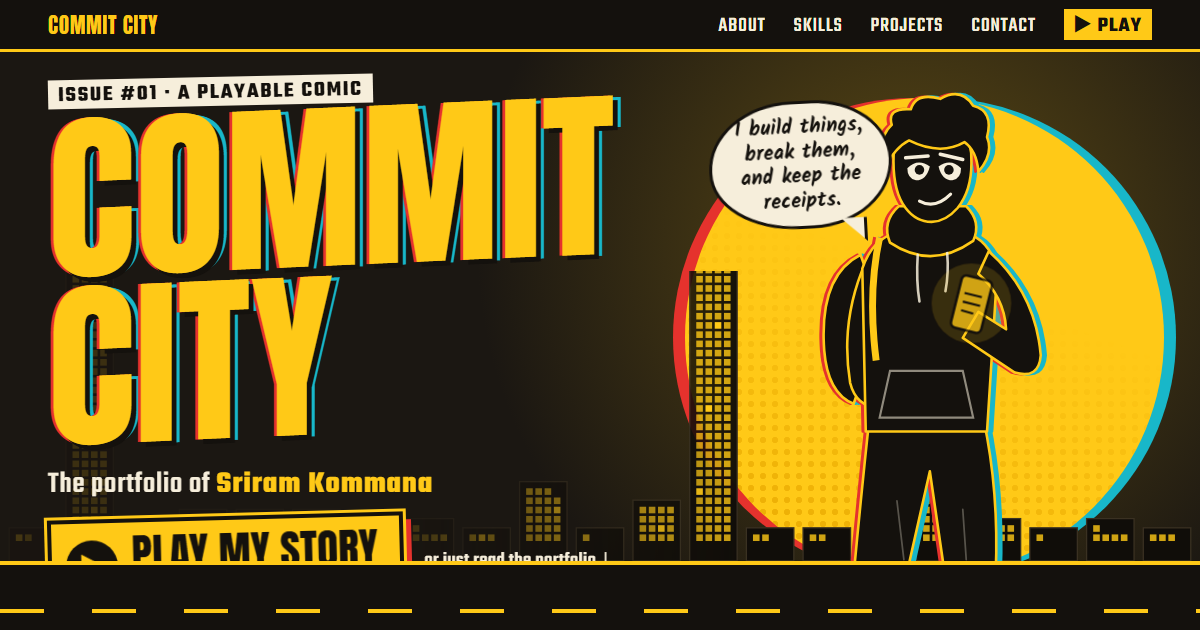
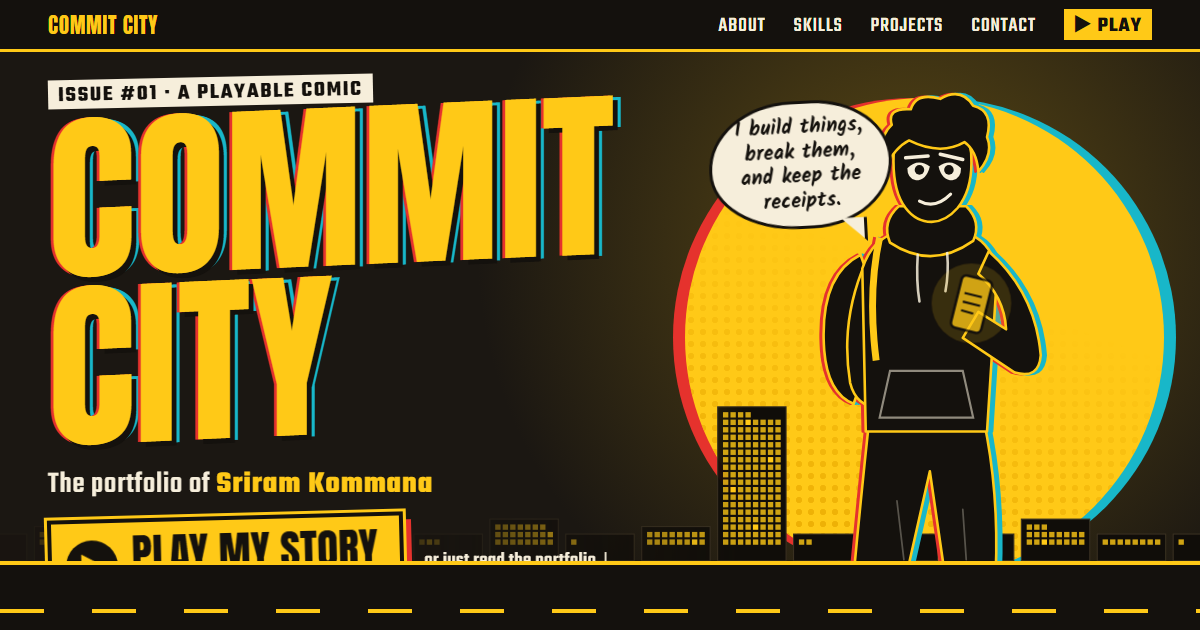
Make the skyline fill the page width
Wider buildings keep one window per commit while making the section and its
repo signs readable on desktop.

diff --git a/src/lib/skyline.ts b/src/lib/skyline.ts
@@ -18,7 +18,7 @@ const files = import.meta.glob<Snapshot>('../../content/skyline*.json', { eager:
 export const skyline: Snapshot =
   files['../../content/skyline.json'] ?? files['../../content/skyline.fallback.json'];
 
-export const COLS = 4;
+export const COLS = 8;
 export const CELL = 7;
 export const GAP = 7;
 export const BUILDING_W = COLS * CELL + 8;
